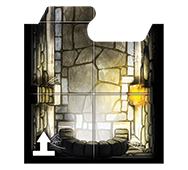
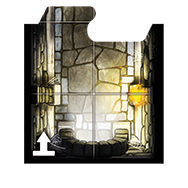
background-attachment:local; let background of the map scroll when is scrolled

diff --git a/index.html b/index.html
@@ -83,47 +83,6 @@
     <div id="output" style="display: none;"></div>
 
     <div class="sidenav funny_scrollbar_blue" id="sidenav">
-        <!--
-        <image src="assets/tiles/base/01A.png" orientation="0" pieceType="tile" oncontextmenu="return false;" id="01A"
-            style="position: absolute; cursor: move; width: 100%; z-index: -1" onMap="no"></image>
-
-        <image src="assets/tiles/base/02A.png" orientation="0" pieceType="tile" oncontextmenu="return false;" id="02A"
-            style="position: absolute; cursor: move; width: 100%; z-index: -1;" onMap="no"></image>
-
-        <image src="assets/tiles/base/03A.png" orientation="0" pieceType="tile" oncontextmenu="return false;" id="03A"
-            style="position: absolute; cursor: move; width: 100%; z-index: -1" onMap="no"></image>
-
-        <image src="assets/tiles/base/04A.png" orientation="0" pieceType="tile" oncontextmenu="return false;" id="04A"
-            style="position: absolute; cursor: move; width: 100%; z-index: -1;" onMap="no"></image>
-
-        <image src="assets/tiles/base/05A.png" orientation="0" pieceType="tile" oncontextmenu="return false;" id="05A"
-            style="position: absolute; cursor: move; width: 100%; z-index: -1;" onMap="no"></image>
-
-        <image src="assets/tiles/base/06A.png" orientation="0" pieceType="tile" oncontextmenu="return false;" id="06A"
-            style="position: absolute; cursor: move; width: 100%; z-index: -1;" onMap="no"></image>
-
-        <image src="assets/tiles/base/07A.png" orientation="0" pieceType="tile" oncontextmenu="return false;" id="07A"
-            style="position: absolute; cursor: move; width: 100%; z-index: -1" onMap="no"></image>
-
-        <image src="assets/tiles/base/08A.png" orientation="0" pieceType="tile" oncontextmenu="return false;" id="08A"
-            style="position: absolute; cursor: move; width: 100%; z-index: -1;" onMap="no"></image>
-
-        <image src="assets/tiles/base/09A.png" orientation="0" pieceType="tile" oncontextmenu="return false;" id="09A"
-            style="position: absolute; cursor: move; width: 100%; z-index: -1;" onMap="no"></image>
-
-        <image src="assets/tiles/base/10A.png" orientation="0" pieceType="tile" oncontextmenu="return false;" id="10A"
-            style="position: absolute; cursor: move; width: 100%; z-index: -1;" onMap="no"></image>
-
-        <image src="assets/tiles/base/15A.png" orientation="0" pieceType="tile" oncontextmenu="return false;" id="15A"
-            style="position: absolute; cursor: move; width: 100%; z-index: -1;" onMap="no"></image>
-
-        <image src="assets/tiles/base/17A.png" orientation="0" pieceType="tile" oncontextmenu="return false;" id="17A"
-            style="position: absolute; cursor: move; width: 100%; z-index: -1;" onMap="no"></image>
-
-        <image src="assets/tiles/base/18A.png" orientation="0" pieceType="tile" oncontextmenu="return false;" id="18A"
-            style="position: absolute; cursor: move; width: 100%; z-index: -1;" onMap="no"></image>
-        -->
-
         <image src="assets/tiles/base/01A.png" orientation="0" pieceType="tile" oncontextmenu="return false;" id="01A"
             style="position: absolute; cursor: move; width: 100%; z-index: -1" onMap="no"></image>
         <image src="assets/tiles/base/01B.png" orientation="0" pieceType="tile" oncontextmenu="return false;" id="01B"
@@ -441,7 +400,6 @@
             ruin</button>
         <button class="blueButton" id="load_shadow_of_nerekhall_tiles" onclick="LoadShadowOfNerekhall()">load shadow of
             nerekhall</button>
-
     </div>
 
 </body>

diff --git a/css/general.css b/css/general.css
@@ -16,10 +16,6 @@ body {
     background-color: #111; /* Black */
 }
 
-.sidenav image{
-    width: "40px"
-}
-
 .map {
     height: 95%;/* Full-height: remove this if you want "auto" height */
     width: 100%; /* Set the width of the sidebar */
@@ -29,6 +25,7 @@ body {
     top: 0; /* Stay at the top */
     left: 286;
     background-image: url('../assets/background.jpg');
+    background-attachment:local;
 }
 
 .control_bar{
